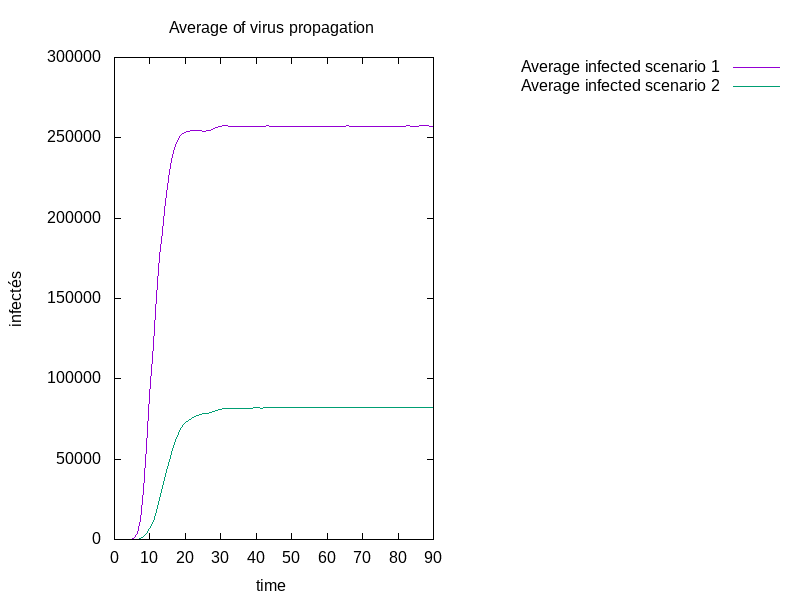
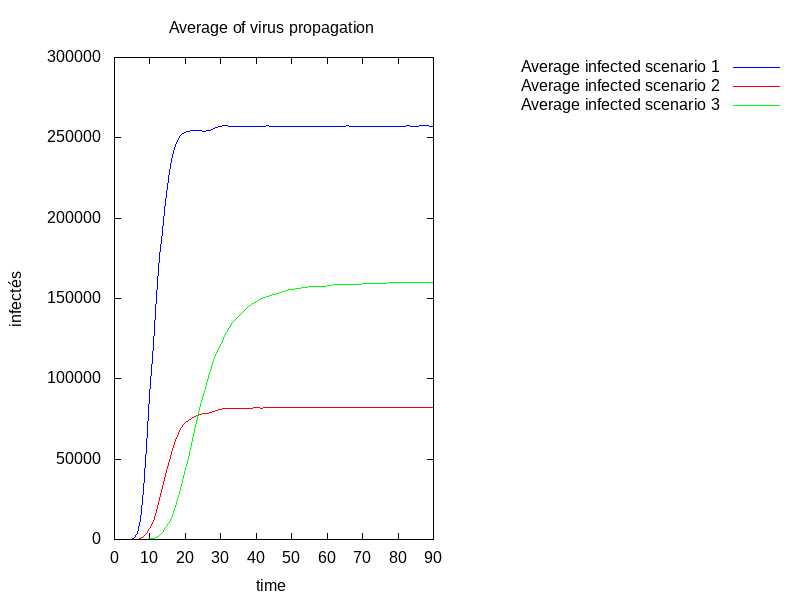
Question 2-3 - Sim 3 + gnuplot update + moyenne gr0/1

Changed region(s): [[0.6562, 0.15, 0.9062, 0.21]]

diff --git a/src/main/java/RI.java b/src/main/java/RI.java
@@ -311,6 +311,22 @@ public class RI {
                     Node n = graph.getNode(j);
 
                     if (n.getAttribute("flush").equals(0)) {             // Si c'est le jour de l'antivirus
+                        List<Node> voisins = new ArrayList<>();
+                        for (int h = 0; h < n.getDegree(); h++) {      // Recherche des voisins
+                            voisins.add(n.getEdge(h).getOpposite(n));
+                        }
+                        for (int h = 0; h < voisins.size(); h++) {
+                            if (n.getAttribute("mail" + h).equals(0)) {
+                                n.setAttribute("mail" + h, (int) (Math.random() * 7));
+                                if (n.getAttribute("I").equals(true) && voisins.get(h).getAttribute("I").equals(false) && !n.getAttribute("j").equals(i)) {
+                                    voisins.get(h).setAttribute("I", true);
+                                    voisins.get(h).setAttribute("j", i);
+                                    nbContamines++;
+                                }
+                            } else {
+                                n.setAttribute("mail" + h, (int) n.getAttribute("mail" + h) - 1);
+                            }
+                        }
                         if (n.getAttribute("I").equals(true) && !n.getAttribute("j").equals(i)) {
                             n.setAttribute("I", false);
                             nbContamines--;
@@ -340,7 +356,6 @@ public class RI {
                 System.out.println("NbContaminés jour " + i + " : " + nbContamines);
             }
             System.out.println("Pourcentage contaminé : " + (1.0*nbContamines/graph.getNodeCount())*100);
-            nbContamines = 1;
         }
         System.out.println("Résumé en moyenne : ");
         for(int i = 0; i < 90 && nbPasse > 0; i++) {
@@ -354,7 +369,7 @@ public class RI {
 
         /* --- On réussit à convaincre 50 % des individus de mettre à jour en permanence leur anti-virus (immunisation aléatoire) --- */
 
-        int nbPasse2 = 5;
+        int nbPasse2 = 0;
         int[][] resultats2 = new int[nbPasse2][90];
         for(int f = 0; f < nbPasse2; f++) {
             graph.getNode(0).setAttribute("I", true);   // Le noeud 0 est le patient 0
@@ -386,6 +401,22 @@ public class RI {
                     Node n = graph.getNode(j);
 
                     if (n.getAttribute("flush").equals(0)) {             // Si c'est le jour de l'antivirus
+                        List<Node> voisins = new ArrayList<>();
+                        for (int h = 0; h < n.getDegree(); h++) {      // Recherche des voisins
+                            voisins.add(n.getEdge(h).getOpposite(n));
+                        }
+                        for (int h = 0; h < voisins.size(); h++) {
+                            if (n.getAttribute("mail" + h).equals(0)) {
+                                n.setAttribute("mail" + h, (int) (Math.random() * 7));
+                                if (n.getAttribute("I").equals(true) && voisins.get(h).getAttribute("I").equals(false) && !n.getAttribute("j").equals(i)) {
+                                    voisins.get(h).setAttribute("I", true);
+                                    voisins.get(h).setAttribute("j", i);
+                                    nbContamines++;
+                                }
+                            } else {
+                                n.setAttribute("mail" + h, (int) n.getAttribute("mail" + h) - 1);
+                            }
+                        }
                         if (n.getAttribute("I").equals(true) && !n.getAttribute("j").equals(i)) {
                             n.setAttribute("I", false);
                             nbContamines--;
@@ -415,7 +446,6 @@ public class RI {
                 System.out.println("NbContaminés jour " + i + " : " + nbContamines);
             }
             System.out.println("Pourcentage contaminé : " + (1.0*nbContamines/graph.getNodeCount())*100);
-            nbContamines = 1;
         }
         System.out.println("Résumé en moyenne : ");
         for(int i = 0; i < 90 && nbPasse2 > 0; i++) {
@@ -426,7 +456,147 @@ public class RI {
             moy/=nbPasse2;
             System.out.println((i+1) + " " + moy);
         }
+
         /* --- On réussit à convaincre 50 % des individus de convaincre un de leurs contacts de mettre à jour en permanence son anti-virus (immunisation sélective) --- */
+
+        int nbPasse3 = 1;
+        int nbVaccine = 0;
+        float degreMoyenSc3G0 = 0;
+        float degreMoyenSc3G1 = 0;
+        int nbVaccineTemp = 0;
+        int[][] resultats3 = new int[nbPasse3][90];
+        for(int f = 0; f < nbPasse3; f++) {
+            graph.getNode(0).setAttribute("I", true);   // Le noeud 0 est le patient 0
+            graph.getNode(0).setAttribute("flush", (int)(Math.random()*14));
+            graph.getNode(0).setAttribute("j", 0);
+            graph.getNode(0).setAttribute("immu", false);
+            for(int j = 0; j < graph.getNode(0).getDegree(); j++) {
+                graph.getNode(0).setAttribute("mail"+j, (int)(Math.random()*7));
+            }
+            for(int i = 1; i < graph.getNodeCount(); i++) {
+                Node n = graph.getNode(i);
+                n.setAttribute("I", false);
+                n.setAttribute("flush", (int)(Math.random()*14));   //Mise a jour pas en même temps pour tous le monde
+                n.setAttribute("j", -1);                     //A été infecté quel jour
+                boolean voisinVacciné = false;
+                if(Math.random() > 0.5) {           // 50% des gens ne convaincs pas leur voisins
+                    voisinVacciné = true;
+                }
+                for(int j = 0; j < graph.getNode(i).getDegree(); j++) {
+                    n.setAttribute("mail"+j, (int)(Math.random()*7));
+
+                    if((j == graph.getNode(i).getDegree()-1 && !voisinVacciné) || (!voisinVacciné && Math.random() > 0.5)) {
+                        n.setAttribute("immu", true);                               // On est immunisé nous même
+                        n.getEdge(j).getOpposite(n).setAttribute("immu", true);     // Et le voisin aussi
+                        degreMoyenSc3G0 += n.getDegree();
+                        voisinVacciné = true;
+                        nbVaccine++;
+                    } else {
+                        n.getEdge(j).getOpposite(n).setAttribute("immu", false);
+                    }
+                }
+            }
+            int nbContamines = 1;
+
+            System.out.println("PASSE " + f);
+            for (int i = 0; i < 90; i++) {
+                for (int j = 0; j < graph.getNodeCount(); j++) {
+                    Node n = graph.getNode(j);
+
+                    if (n.getAttribute("flush").equals(0)) {             // Si c'est le jour de l'antivirus
+                        List<Node> voisins = new ArrayList<>();
+                        for (int h = 0; h < n.getDegree(); h++) {      // Recherche des voisins
+                            voisins.add(n.getEdge(h).getOpposite(n));
+                        }
+                        for (int h = 0; h < voisins.size(); h++) {
+                            if (n.getAttribute("mail" + h).equals(0)) {
+                                n.setAttribute("mail" + h, (int) (Math.random() * 7));
+                                if (n.getAttribute("I").equals(true) && voisins.get(h).getAttribute("I").equals(false) && !n.getAttribute("j").equals(i)) {
+                                    voisins.get(h).setAttribute("I", true);
+                                    voisins.get(h).setAttribute("j", i);
+                                    nbContamines++;
+                                }
+                            } else {
+                                n.setAttribute("mail" + h, (int) n.getAttribute("mail" + h) - 1);
+                            }
+                        }
+                        if (n.getAttribute("I").equals(true) && !n.getAttribute("j").equals(i)) {
+                            n.setAttribute("I", false);
+                            nbContamines--;
+                        }
+                        n.setAttribute("flush", (int) (Math.random() * 14));
+                    } else {
+                        n.setAttribute("flush", (int) n.getAttribute("flush") - 1);
+                        List<Node> voisins = new ArrayList<>();
+                        for (int h = 0; h < n.getDegree(); h++) {      // Recherche des voisins
+                            voisins.add(n.getEdge(h).getOpposite(n));
+                        }
+                        for (int h = 0; h < voisins.size(); h++) {
+                            if (n.getAttribute("mail" + h).equals(0)) {
+                                n.setAttribute("mail" + h, (int) (Math.random() * 7));
+                                if (n.getAttribute("I").equals(true) && voisins.get(h).getAttribute("I").equals(false) && !n.getAttribute("j").equals(i) && voisins.get(h).getAttribute("immu").equals(false)) {
+                                    voisins.get(h).setAttribute("I", true);
+                                    voisins.get(h).setAttribute("j", i);
+                                    nbContamines++;
+                                }
+                            } else {
+                                n.setAttribute("mail" + h, (int) n.getAttribute("mail" + h) - 1);
+                            }
+                        }
+                    }
+                }
+                for(int h = 0; h < graph.getNodeCount(); h++) {
+                    Node n = graph.getNode(h);
+                    if(!n.getAttribute("immu").equals(true) && Math.random() > 0.5) {
+                        boolean voisinVacciné = false;
+                        Node lastNonVaccine = null;
+                        for(int j = 0; j < graph.getNode(h).getDegree(); j++) {
+                            if(!voisinVacciné && Math.random() > 0.5 && !n.getEdge(j).getOpposite(n).getAttribute("immu").equals(true)) {
+                                n.getEdge(j).getOpposite(n).setAttribute("immu", true);
+                                voisinVacciné = true;
+                                nbVaccine++;
+                                if(i == 1) {
+                                    degreMoyenSc3G1 += n.getEdge(j).getOpposite(n).getDegree();
+                                }
+                            } else if(!n.getEdge(j).getOpposite(n).getAttribute("immu").equals(true)) {
+                                lastNonVaccine = n.getEdge(j).getOpposite(n);
+                            }
+                        }
+                        if(!voisinVacciné && lastNonVaccine != null) {
+                            lastNonVaccine.setAttribute("immu", true);
+                            nbVaccine++;
+                            voisinVacciné = true;
+                            if(i == 1) {
+                                degreMoyenSc3G1 += lastNonVaccine.getDegree();
+                            }
+                        }
+                    }
+                }
+                resultats3[f][i] = nbContamines;
+                System.out.println("NbContaminés jour " + i + " : " + nbContamines);
+                System.out.println("nbVaccine jour " + i + " : " + nbVaccine);
+                if(i == 0) {
+                    degreMoyenSc3G0 /= nbVaccine;
+                    nbVaccineTemp = nbVaccine;
+                } else if(i == 1) {
+                    int nb = nbVaccine - nbVaccineTemp;
+                    degreMoyenSc3G1 /= nb;
+                }
+            }
+            System.out.println("degré moyen groupe 0 : " + degreMoyenSc3G0);
+            System.out.println("degré moyen groupe 1 : " + degreMoyenSc3G1);
+            System.out.println("Pourcentage contaminé : " + (1.0*nbContamines/graph.getNodeCount())*100);
+            System.out.println("Pourcentage immunisé : " + (1.0*nbVaccine/graph.getNodeCount())*100);
+        }
+        System.out.println("Résumé en moyenne : ");
+        for(int i = 0; i < 90 && nbPasse3 > 0; i++) {
+            int moy = 0;
+            for(int j = 0; j < nbPasse3; j++) {
+                moy += resultats3[j][i];
+            }
+            moy/=nbPasse3;
+            System.out.println((i+1) + " " + moy);
+        }
 
         /* Fin simulations */
     }
@@ -468,15 +638,3 @@ public class RI {
         }
     }
 }
-
-
-
-/*
-taux de propagation du virus sis :
-betha = 1/7
-Mu = 1/14
-lambda = 1/7/1/14 = 2
-
-seuil épidémique du réseau :
-lambda de c = <k>/<k²> = 6.6/
-*/

diff --git a/README.md b/README.md
@@ -131,7 +131,7 @@ L'échelle de temps utilisé sera le jour.
 **DONE**
 
 2. Simulez la propagation du virus jour par jour pendant trois mois avec les scénarios suivants :
-   - On ne fait rien pour empêcher l'épidémie  (utiliser une échelle i=T/N en vertical et t en horizontal pour le draw)
+   - On ne fait rien pour empêcher l'épidémie
    - On réussit à convaincre 50 % des individus de mettre à jour en permanence leur anti-virus (immunisation aléatoire)
    - On réussit à convaincre 50 % des individus de convaincre un de leurs contacts de mettre à jour en permanence son anti-virus (immunisation sélective).
    - Pour chacun des trois scénarios, tracez l'évolution de la fraction d'infectés de la population non immunisée. Que peut-on conclure ?
@@ -139,13 +139,18 @@ L'échelle de temps utilisé sera le jour.
    Attention : La réalisation d'un scénario autour des valeurs critiques est sensible aux conditions initiales. Simulez plusieurs fois chaque scénario afin d'identifier le déroulement typique.
 
 
-   **DOING**
+   **DONE**
 
 
 3. Pour justifier l'efficacité de l'immunisation sélective, calculez le degré moyen des groupes 0 et 1. Comment expliquez-vous la différence ?  
 
+Moyenne Gr0 : 4.48
 
-**TODO**
+Moyenne Gr1 : 7.7
+
+La différence entre ces groupes est que le groupe 1 immunisé ayant un plus grand nombre de voisins, permets de ralentir plus efficacement le virus, en immunisant les noeuds à plus fort degré
+
+**DONE**
 
 
 4. Du point de vue du virus l'immunisation d'un nœud est équivalente à sa suppression du réseau. Calculez le seuil épidémique du réseau modifié pour chacune des deux stratégies d'immunisation et comparez avec le seuil épidémique du réseau initial.  
